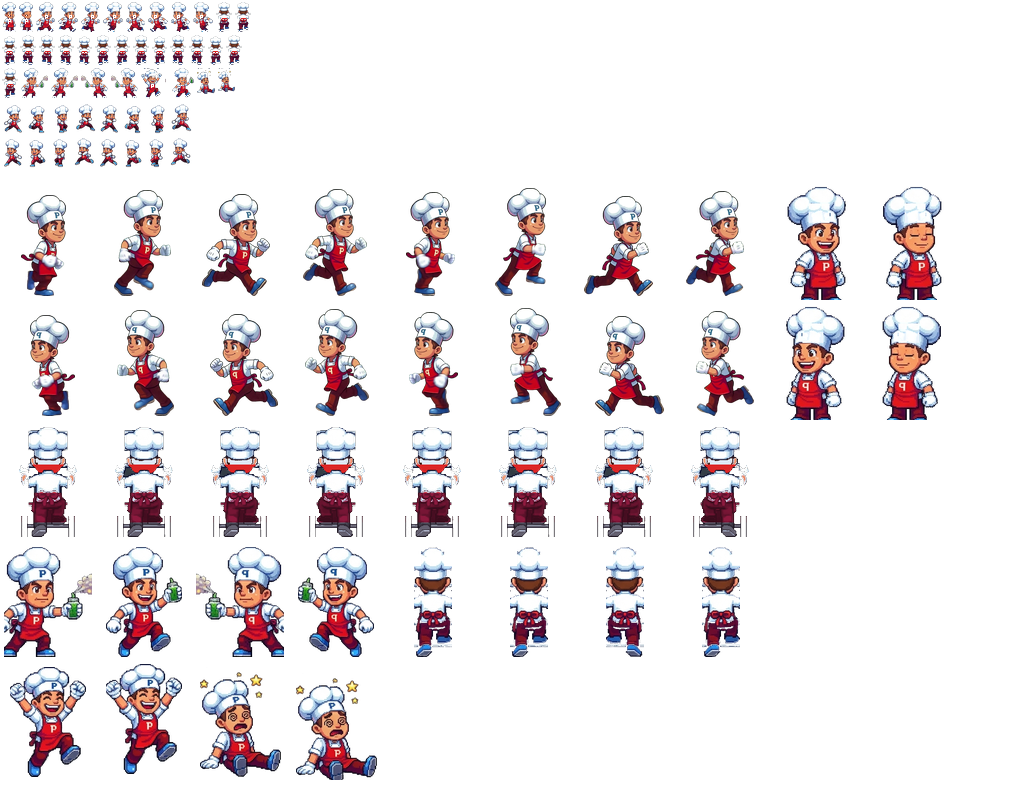
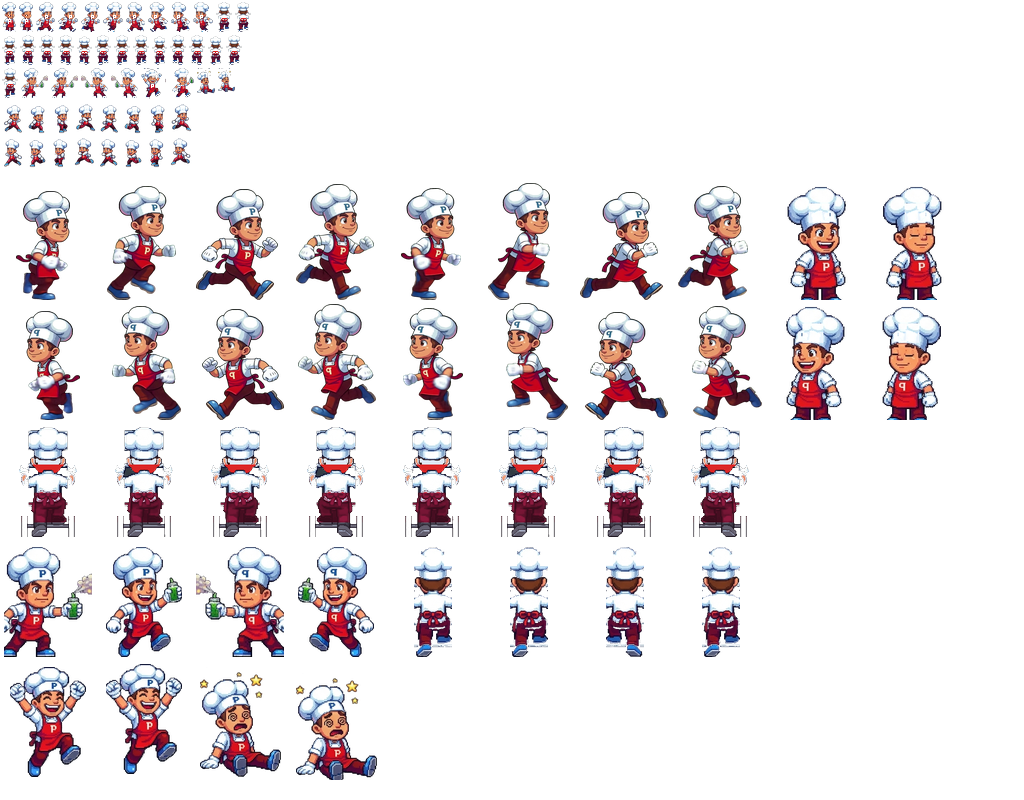
fix(sprites): match running sprite size, build, and baseline to standing sprite

Changed region(s): [[0.0, 0.2188, 0.75, 0.5312]]

diff --git a/index.html b/index.html
@@ -189,20 +189,20 @@
   </div>
 
   <!-- Game Scripts -->
-  <script src="js/chef_atlas.js?v=127"></script>
-  <script src="js/enemies_atlas.js?v=127"></script>
-  <script src="js/items_atlas.js?v=127"></script>
-  <script src="js/kiloburner_atlas.js?v=127"></script>
-  <script src="js/audio.js?v=127"></script>
-  <script src="js/sprites.js?v=127"></script>
-  <script src="js/kiloburner.js?v=127"></script>
-  <script src="js/map.js?v=127"></script>
-  <script src="js/burger.js?v=127"></script>
-  <script src="js/entities.js?v=127"></script>
-  <script src="js/stage_themes.js?v=127"></script>
-  <script src="js/controls.js?v=127"></script>
-  <script src="js/godot_gfx_engine.js?v=127"></script>
-  <script src="js/game.js?v=127"></script>
+  <script src="js/chef_atlas.js?v=128"></script>
+  <script src="js/enemies_atlas.js?v=128"></script>
+  <script src="js/items_atlas.js?v=128"></script>
+  <script src="js/kiloburner_atlas.js?v=128"></script>
+  <script src="js/audio.js?v=128"></script>
+  <script src="js/sprites.js?v=128"></script>
+  <script src="js/kiloburner.js?v=128"></script>
+  <script src="js/map.js?v=128"></script>
+  <script src="js/burger.js?v=128"></script>
+  <script src="js/entities.js?v=128"></script>
+  <script src="js/stage_themes.js?v=128"></script>
+  <script src="js/controls.js?v=128"></script>
+  <script src="js/godot_gfx_engine.js?v=128"></script>
+  <script src="js/game.js?v=128"></script>
 
   <!-- Service Worker Registration for Offline Play & PWA -->
   <script>

diff --git a/js/sprites.js b/js/sprites.js
@@ -37,13 +37,13 @@ class SpriteManager {
 
   initAtlas() {
     this.atlasImg = new Image();
-    this.atlasImg.src = 'assets/chef_atlas.png?v=127';
+    this.atlasImg.src = 'assets/chef_atlas.png?v=128';
     this.atlasLoaded = false;
     this.atlasImg.onload = () => {
       this.atlasLoaded = true;
     };
     this.atlasImg.onerror = () => {
-      this.atlasImg.src = 'assets/peter_atlas.png?v=127';
+      this.atlasImg.src = 'assets/peter_atlas.png?v=128';
     };
   }
 

diff --git a/sw.js b/sw.js
@@ -1,4 +1,4 @@
-const CACHE_NAME = 'burgerpanic-mobile-v127';
+const CACHE_NAME = 'burgerpanic-mobile-v128';
 const ASSETS = [
   './',
   './index.html',
